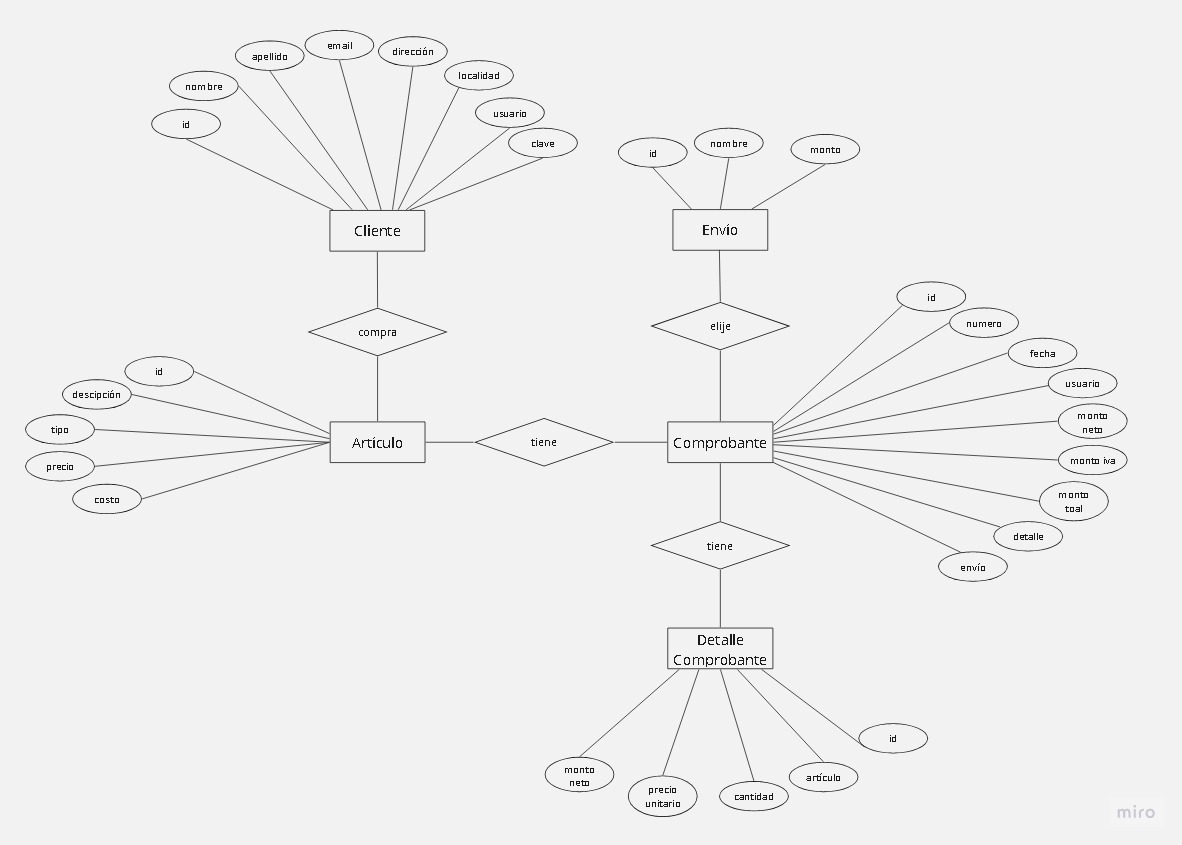
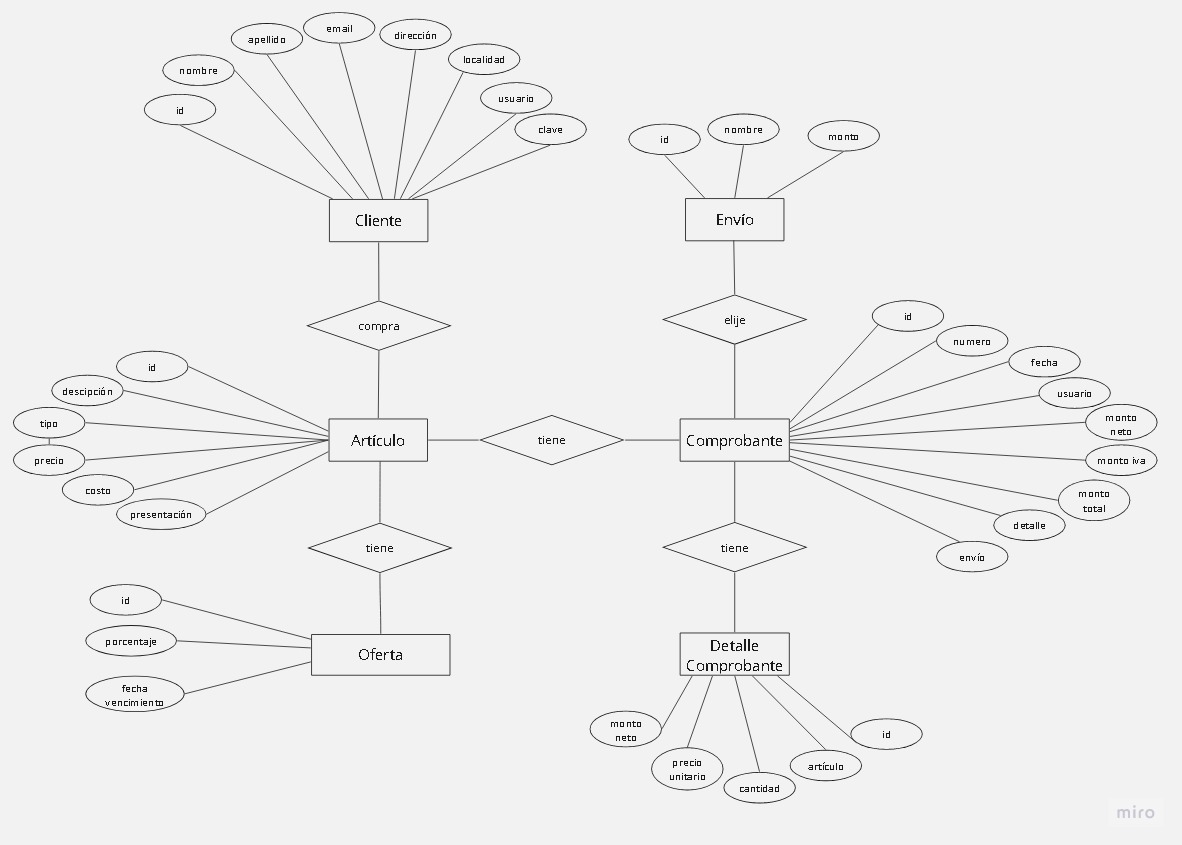
agrego der y cambio script de carpeta

diff --git a/front-end/enbalde/src/app/shared/header/header.component.html b/front-end/enbalde/src/app/shared/header/header.component.html
@@ -11,12 +11,12 @@
                     <li class="nav-item"><a class="nav-link" [routerLink]="['/login']">Ingresar</a></li>
                     <li class="nav-item"><a class="nav-link" [routerLink]="['/registracion']">Registrarse</a></li>
                     <li class="nav-item"><a class="nav-link" [routerLink]="['/contacto']">Contacto</a></li>
-                    <li class="nav-item"><a class="nav-link" [routerLink]="['/carrito']"><img id="logocarrito" src="assets/img/carrito.png" alt="logo carrito" width="50" height="50"></a></li>
+                    <li class="nav-item"><a class="nav-link" [routerLink]="['/carrito']"><img id="logocarrito" src="assets/img/carrito.png" alt="logo carrito" width="40" height="40"></a></li>
                 </ul>
 
                 <form class="d-flex" role="search">
                   <input class="form-control me-2" type="search" placeholder="Buscar" aria-label="Search">
-                  <button class="btn btn-outline-primary" type="submit"><img id="logolupa" src="assets/img/lupa.png" alt="logo lupa" width="30" height="30"></button>
+                  <button class="btn btn-outline-primary" type="submit"><img id="logolupa" src="assets/img/lupa.png" alt="logo lupa" width="20" height="20"></button>
                 </form>
             </div>
         </div>
